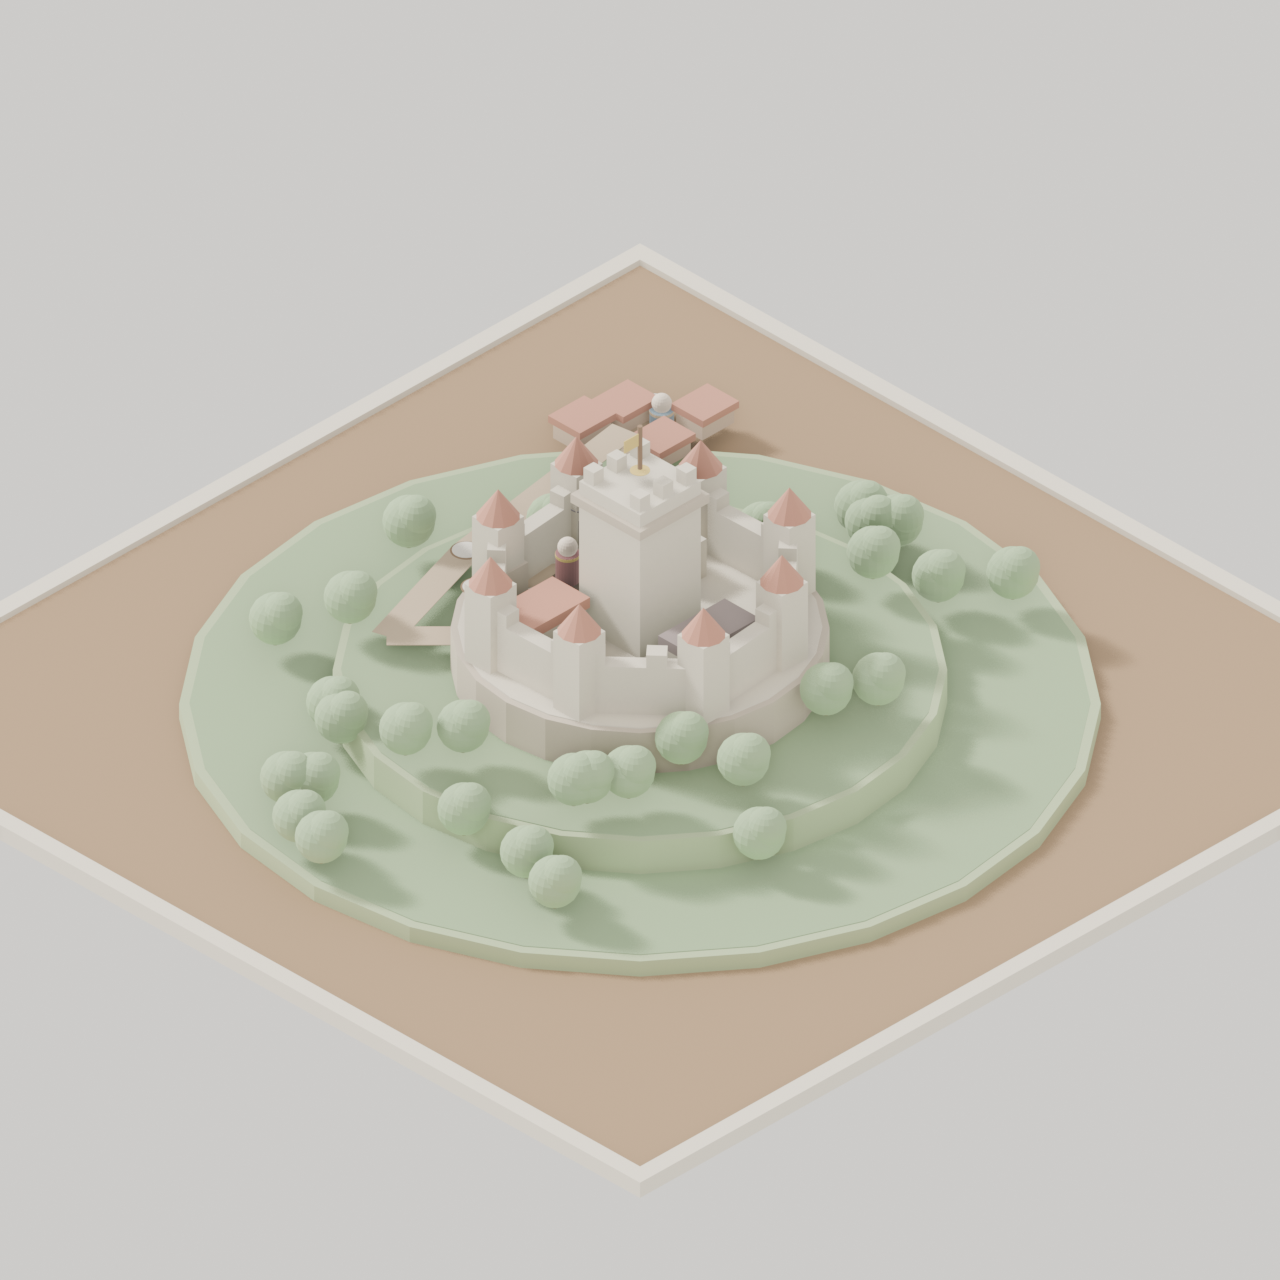
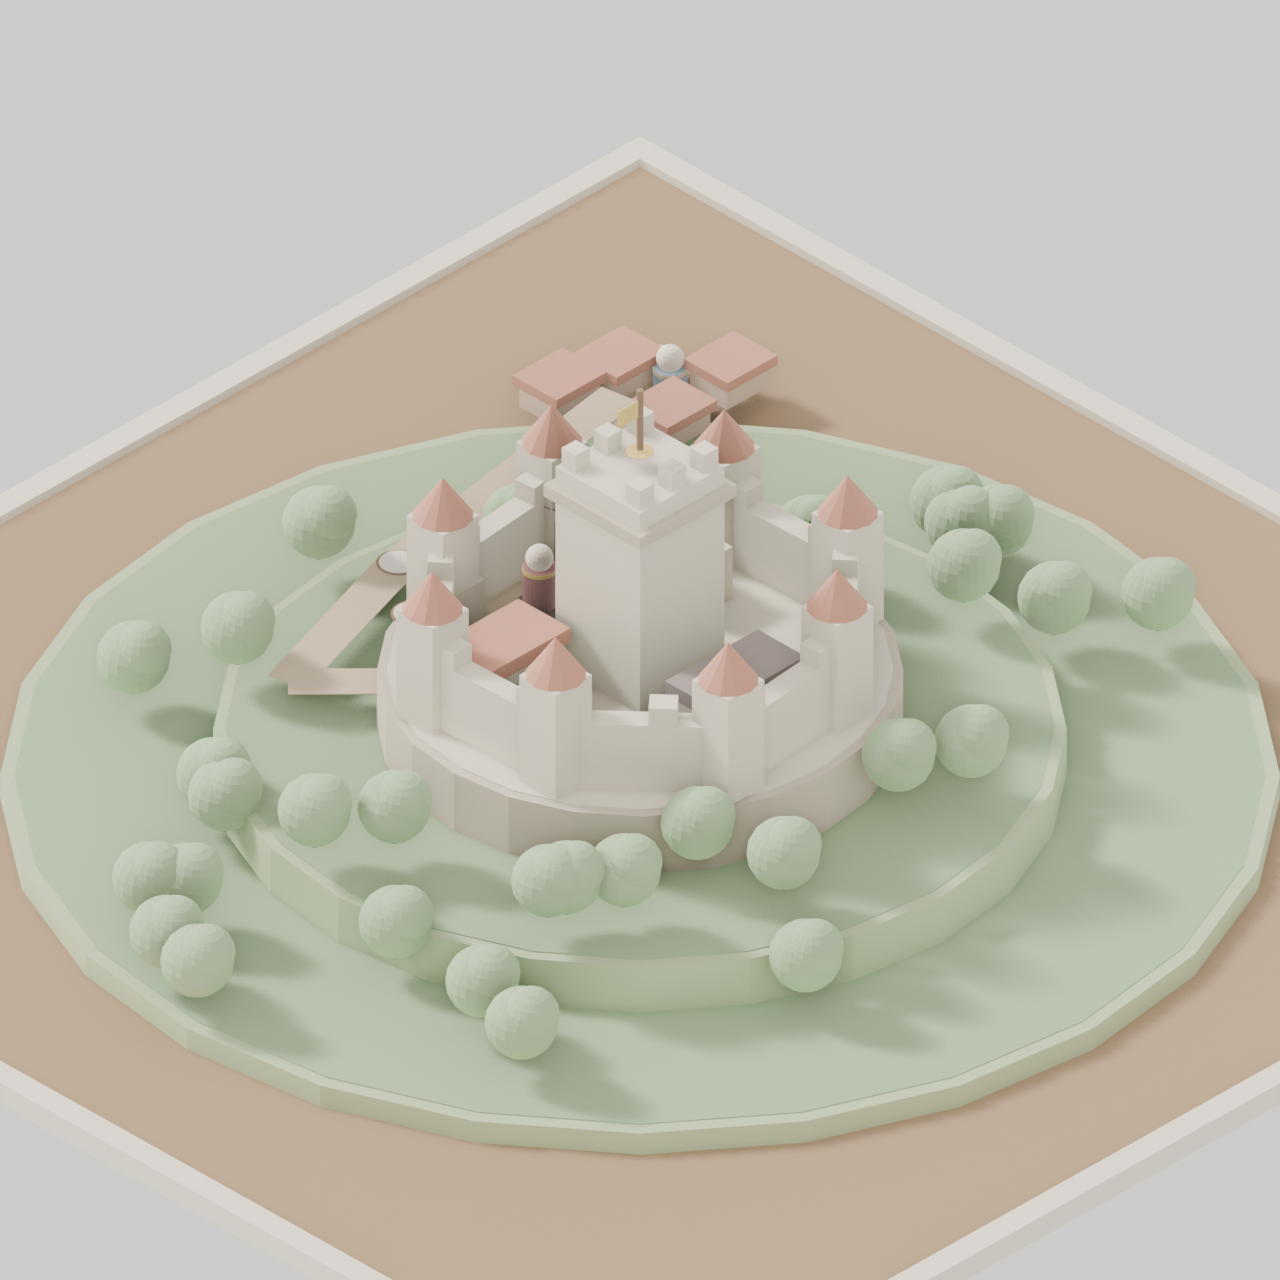
dailies: boardgame-diorama L4 zoom + 3 famous-fortress maps (L5-L7)
L4 re-rendered with tighter framing so the castle dominates the canvas.
Three new historical-fortress maps in the same visual language:

 - L5 Tidal-Island Abbey (Mont-Saint-Michel inspired) — round rock
   island rising from a tidal sea, ringed by red-roofed houses,
   abbey + spire on top, causeway to the mainland
 - L6 Walled Medieval City (Carcassonne inspired) — long oval double
   curtain walls with 26 small round towers, basilica + chateau
   inside, barbican gatehouse + dirt approach
 - L7 Tiered White Castle (Himeji inspired) — square stone embankment
   with white-plastered tiered keep, stacked dark-slate roof slabs
   with overhangs, cherry-tree perimeter, torii gate

Public-domain centuries-old subjects; original geometry; no specific
heraldry. Each level uses a distinct palette and silhouette so the
four fortresses (L4-L7) read as themselves at a glance.

diff --git a/docs/index.html b/docs/index.html
@@ -197,6 +197,43 @@
   <div id="feed">
     <div class="session" data-game="boardgame-diorama" style="grid-column: 1/-1;">
       <div class="session-header">
+        <span class="session-date">2026-04-28 00:30</span>
+        <span class="session-label">boardgame-diorama · Level 4 (zoom) + Famous Fortress Trio 🏰⛩</span>
+      </div>
+      <div class="session-body">
+        <p class="note"><strong>Two changes:</strong> (1) re-rendered Level 4 with a tighter ortho_scale + raised target so the castle dominates the canvas — figurine-scale troop action below the walls now reads at hero-shot size. (2) Added three new historical-fortress maps in the same style, each with a distinct silhouette to demonstrate the visual language stretches across very different real-world architectures. All public-domain centuries-old subjects; original geometry; no specific heraldry, no real persons.</p>
+        <div class="compare-grid">
+          <div class="thumb-wrap">
+            <img src="boardgame-diorama/2026-04-27-level4_fortress.png" alt="Level 4 (re-zoom). The hilltop fortress now fills most of the frame. Three concentric green-and-stone hill tiers, octagonal curtain wall with crenellations and corner towers topped by red conical roofs, central square keep with flag pole and gold pennant, courtyard buildings (chapel + bell tower, barracks, storehouse), switchback dirt path, foothill village. Trees and figurines readable at the new scale." />
+          </div>
+          <div class="thumb-wrap">
+            <img src="boardgame-diorama/2026-04-27-level5_tidal_abbey.png" alt="Level 5 — Tidal-Island Abbey, Mont-Saint-Michel inspired. Square wooden board with cream edge frame, water-blue square in the middle, sand-colored ring, then a circular rock island rising in stacked tiers. Around the lower tier: red-roofed stone houses ring the island. Upper tier: monastic buildings with darker slate roofs. At the summit: a rectangular nave + crossing tower + tall narrow gold spire reaching well above everything else. A narrow sand causeway extends from the south edge of the board to the island. Two small boats sail on the water. A pilgrim figurine stands at the base of the causeway, a monk near the abbey." />
+          </div>
+        </div>
+        <div class="compare-grid">
+          <div class="thumb-wrap">
+            <img src="boardgame-diorama/2026-04-27-level6_walled_city.png" alt="Level 6 — Walled Medieval City, Carcassonne inspired. Square wooden board with cream edge. A long oval double curtain wall fills most of the board: outer wall with 14 small round towers and red/slate conical roofs, inner wall with 12 more towers — concentric. Inside the inner ring: scattered town houses with red roofs, a basilica with slate-roof nave + tall spire near the center, and a four-towered chateau (the comtal castle) at the western end of the inner ring. A barbican gatehouse juts out from the eastern outer wall, with a dirt causeway leading off-board. Tilled-field patches sit in the surrounding grass. A red-tunic attacker pair waits at the causeway edge; two blue-coated wall guards stand on the outer ramparts; a purple-and-gold lord stands at the chateau door." />
+          </div>
+          <div class="thumb-wrap">
+            <img src="boardgame-diorama/2026-04-27-level7_white_castle.png" alt="Level 7 — Tiered White Castle, Himeji inspired. Square wooden board with cream edge, soft warm-pink world tint suggesting cherry-blossom season. A square stone embankment with sloped-trim corners forms the base, supporting a white-plastered outer wall with dark slate-tile trim. Atop sits a stacked pagoda-like main keep — five tiers of decreasing white walls, each crowned with a flat dark-slate roof slab whose overhang is wider than the wall below. The very top tier carries a small red-lacquer cube finial and four small dark wedges at the corners. Two smaller two-tier auxiliary donjons sit at opposite corners of the upper terrace. Cherry-blossom trees (small white-pink-sphere canopies on dark trunks) cluster around the embankment perimeter. A red-lacquer torii gate stands at the south entry; a pebbled path runs from the gate up to the keep, with figurines: two black-armored samurai with red-lacquer accents on the upper terrace, an approaching traveler at the torii, a purple-and-gold lord at the keep base." />
+          </div>
+        </div>
+        <p class="note" style="margin-top:0.4rem;"><strong>What's working — silhouette differentiation.</strong> The four fortresses each read as themselves: L4 = ringed hilltop with red turrets; L5 = single tall spire on a round tidal island; L6 = long horizontal double-walled town; L7 = stacked pagoda on a square stone base. Same grammar (board, painted edge, figurines, path nodes, iso ortho), totally different feel per palette + silhouette. The system is a portable visual language now — proven across cozy puzzle (L1, L2), war map (L3), and 4 different fortress archetypes.</p>
+        <p class="note" style="margin-top:0.3rem;"><strong>What's still loose:</strong> figurines remain small relative to architecture even at the tighter zoom — a "siege" hero shot would want them noticeably bigger. Cherry blossoms in L7 read as white not pink (alpha/material issue at small scale). Carcassonne's basilica and chateau are present but less hero than they could be — could lift them with stronger color contrast.</p>
+        <div class="review-questions">
+          <p class="review-label">Review</p>
+          <ol>
+            <li>Pick a favorite — which silhouette wants to become an actual playable level first?</li>
+            <li>Figurine scale: bump up across the board, or only in selected hero shots?</li>
+            <li>Pink cherry blossoms: fix the material (probably needs an emissive boost or larger spheres), or leave neutral?</li>
+            <li>More fortresses (Edinburgh, Krak des Chevaliers, Neuschwanstein), or stop here and start prototyping turn-based mechanics?</li>
+          </ol>
+          <p class="reply-prompt">Reply: <code>/dailies-feedback [notes]</code></p>
+        </div>
+      </div>
+    </div>
+    <div class="session" data-game="boardgame-diorama" style="grid-column: 1/-1;">
+      <div class="session-header">
         <span class="session-date">2026-04-27 23:30</span>
         <span class="session-label">boardgame-diorama · Level 4 — Hilltop Fortress 🏰</span>
       </div>
